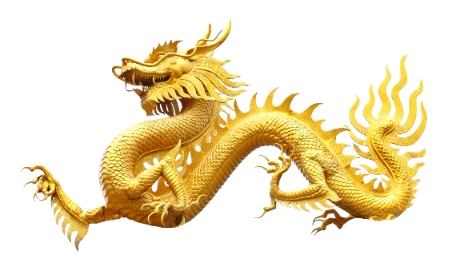
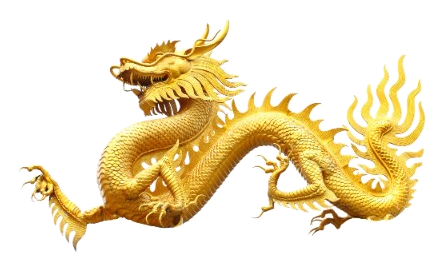
Add files via upload

diff --git a/index.html b/index.html
@@ -601,70 +601,67 @@ body{
 /* === END v32 === */
 
 
-/* === v32 HERO DRAGON + COIN BREATH EFFECT === */
-.dragonCoinHero{
+/* === v32 dragon standing on coin + breathing effect === */
+.dragonCoinStage{
   position:relative;
-  width:min(100%,520px);
-  height:300px;
-  margin:18px auto 16px;
+  width:min(100%,430px);
+  height:190px;
+  margin:4px auto 16px;
   display:grid;
   place-items:center;
   overflow:visible;
-  border-radius:28px;
-  background:radial-gradient(circle at 50% 62%,rgba(255,220,94,.18),transparent 37%),
-             radial-gradient(circle at 50% 35%,rgba(255,255,255,.08),transparent 35%),
-             rgba(30,4,6,.10);
 }
-.dragonAura{
+.coinPileImg{
   position:absolute;
   left:50%;
-  top:53%;
-  width:250px;
-  height:120px;
-  transform:translate(-50%,-50%);
-  border-radius:50%;
-  background:radial-gradient(circle,rgba(255,218,80,.42),rgba(255,140,25,.15) 46%,transparent 72%);
-  filter:blur(12px);
-  animation:dragonAuraBreath 3.4s ease-in-out infinite;
-  pointer-events:none;
-}
-.heroDragonUser{
-  position:absolute;
-  z-index:3;
-  width:min(84%,390px);
-  top:42px;
-  left:50%;
+  bottom:12px;
+  width:46%;
+  max-width:210px;
   transform:translateX(-50%);
-  filter:drop-shadow(0 18px 24px rgba(0,0,0,.36)) drop-shadow(0 0 18px rgba(255,218,84,.22));
-  animation:dragonBreath 3.4s ease-in-out infinite;
+  z-index:1;
+  filter:drop-shadow(0 18px 18px rgba(0,0,0,.42)) drop-shadow(0 0 18px rgba(255,214,78,.18));
 }
-.heroCoinPile{
+.userDragonImg{
   position:absolute;
+  left:50%;
+  bottom:42px;
+  width:56%;
+  max-width:260px;
+  transform:translateX(-50%);
   z-index:2;
-  width:min(54%,250px);
+  transform-origin:50% 82%;
+  animation:dragonBreath 3.2s ease-in-out infinite;
+  filter:drop-shadow(0 18px 18px rgba(0,0,0,.40)) drop-shadow(0 0 22px rgba(255,221,92,.22));
+}
+.dragonCoinStage:after{
+  content:"";
+  position:absolute;
   left:50%;
   bottom:34px;
+  width:52%;
+  height:42px;
   transform:translateX(-50%);
-  filter:drop-shadow(0 16px 18px rgba(0,0,0,.36)) drop-shadow(0 0 14px rgba(255,218,84,.18));
-  animation:coinGlowBreath 3.4s ease-in-out infinite;
+  border-radius:50%;
+  background:radial-gradient(ellipse at center,rgba(255,217,72,.24),rgba(255,130,0,.08) 48%,transparent 72%);
+  animation:dragonGlow 3.2s ease-in-out infinite;
+  z-index:0;
 }
 @keyframes dragonBreath{
-  0%,100%{transform:translateX(-50%) translateY(0) scale(1);filter:drop-shadow(0 18px 24px rgba(0,0,0,.36)) drop-shadow(0 0 16px rgba(255,218,84,.22))}
-  50%{transform:translateX(-50%) translateY(-6px) scale(1.035);filter:drop-shadow(0 22px 28px rgba(0,0,0,.40)) drop-shadow(0 0 28px rgba(255,226,100,.42))}
+  0%,100%{transform:translateX(-50%) translateY(0) scale(1)}
+  45%{transform:translateX(-50%) translateY(-4px) scale(1.028)}
+  70%{transform:translateX(-50%) translateY(-1px) scale(1.012)}
 }
-@keyframes coinGlowBreath{
-  0%,100%{transform:translateX(-50%) scale(1);filter:drop-shadow(0 16px 18px rgba(0,0,0,.36)) drop-shadow(0 0 12px rgba(255,218,84,.18))}
-  50%{transform:translateX(-50%) scale(1.055);filter:drop-shadow(0 18px 22px rgba(0,0,0,.40)) drop-shadow(0 0 24px rgba(255,226,100,.40))}
+@keyframes dragonGlow{
+  0%,100%{opacity:.42;filter:blur(0)}
+  50%{opacity:.78;filter:blur(1.5px)}
 }
-@keyframes dragonAuraBreath{
-  0%,100%{opacity:.42;transform:translate(-50%,-50%) scale(.95)}
-  50%{opacity:.82;transform:translate(-50%,-50%) scale(1.16)}
+.cleanHeroPanel .smallCaps:first-of-type{
+  margin-top:2px;
 }
 @media(max-width:520px){
-  .dragonCoinHero{height:260px;margin-top:12px}
-  .heroDragonUser{width:min(88%,330px);top:38px}
-  .heroCoinPile{width:min(58%,210px);bottom:31px}
-  .dragonAura{width:210px;height:100px}
+  .dragonCoinStage{height:160px;margin-top:0}
+  .userDragonImg{width:62%;bottom:37px}
+  .coinPileImg{width:50%;bottom:10px}
 }
 /* === END v32 === */
 
@@ -676,7 +673,7 @@ body{
 <!-- v32 BUTTON FORM FIX: Тоо шалгах button + missing form + bottom CTA fixed; logic preserved -->
 <!-- v32 REAL LOGO ZODIAC: wording, 12 zodiac images, real bank logos; logic preserved -->
 <!-- v32 DIRECT SYSTEM IMPROVE: user assets only; logic preserved -->
-<!-- v32 HERO DRAGON COIN: user assets only; logic preserved -->
+<!-- v32 USER DRAGON COIN: user assets only; logic preserved -->
 </head>
 <body>
 <div class="page" id="main">
@@ -688,11 +685,17 @@ body{
     <p class="sub">Хүн бүрд өөрт нь цор ганц бүх зүйлийн түлхүүр болсон тоо байдаг. Тэрхүү тоогоор эд баялаг, өрийн дарамт, хайр дурлал, амьдралын томоохон өөрчлөлтийн учгийг таних боломжтой.</p>
 
     <div class="card heroCard cleanHeroPanel">
+      <div class="dragonCoinStage" aria-label="Алтан луу зоосон дээр зогсож буй дүрс">
+        <img class="coinPileImg" src="coin-pile.png?v=32" alt="Алтан зоос">
+        <img class="userDragonImg" src="user-dragon.png?v=32" alt="Алтан луу">
+      </div>
+
       <div class="smallCaps">ЭХНИЙ ДАРАЛТ</div>
-      <div class="dragonCoinHero" aria-label="Алтан луу зоосон дээр зогсож буй дүрслэл">
-        <div class="dragonAura"></div>
-        <img class="heroDragonUser" src="user-dragon.png?v=32" alt="Алтан луу">
-        <img class="heroCoinPile" src="user-coin-pile.png?v=32" alt="Алтан зоос">
+      <div class="goldIngotPreview">
+        <div class="ingotCell"><img src="gold-bar-new.png?v=32" alt="Алтан нүд"><span>?</span></div>
+        <div class="ingotCell"><img src="gold-bar-new.png?v=32" alt="Алтан нүд"><span>?</span></div>
+        <div class="ingotCell faded"><img src="gold-bar-new.png?v=32" alt="Нууц алтан нүд"><span>?</span></div>
+        <div class="ingotCell hiddenish"><img src="gold-bar-new.png?v=32" alt="Нууц алтан нүд"><span>?</span></div>
       </div>
       <p class="heroNoteLite">Төлбөр шаардахгүй. Мэдээллээ оруулаад анхан нээлтээ шууд харна.</p>
       <button class="btn" onclick="showForm()">Тоогоо шалгах</button>